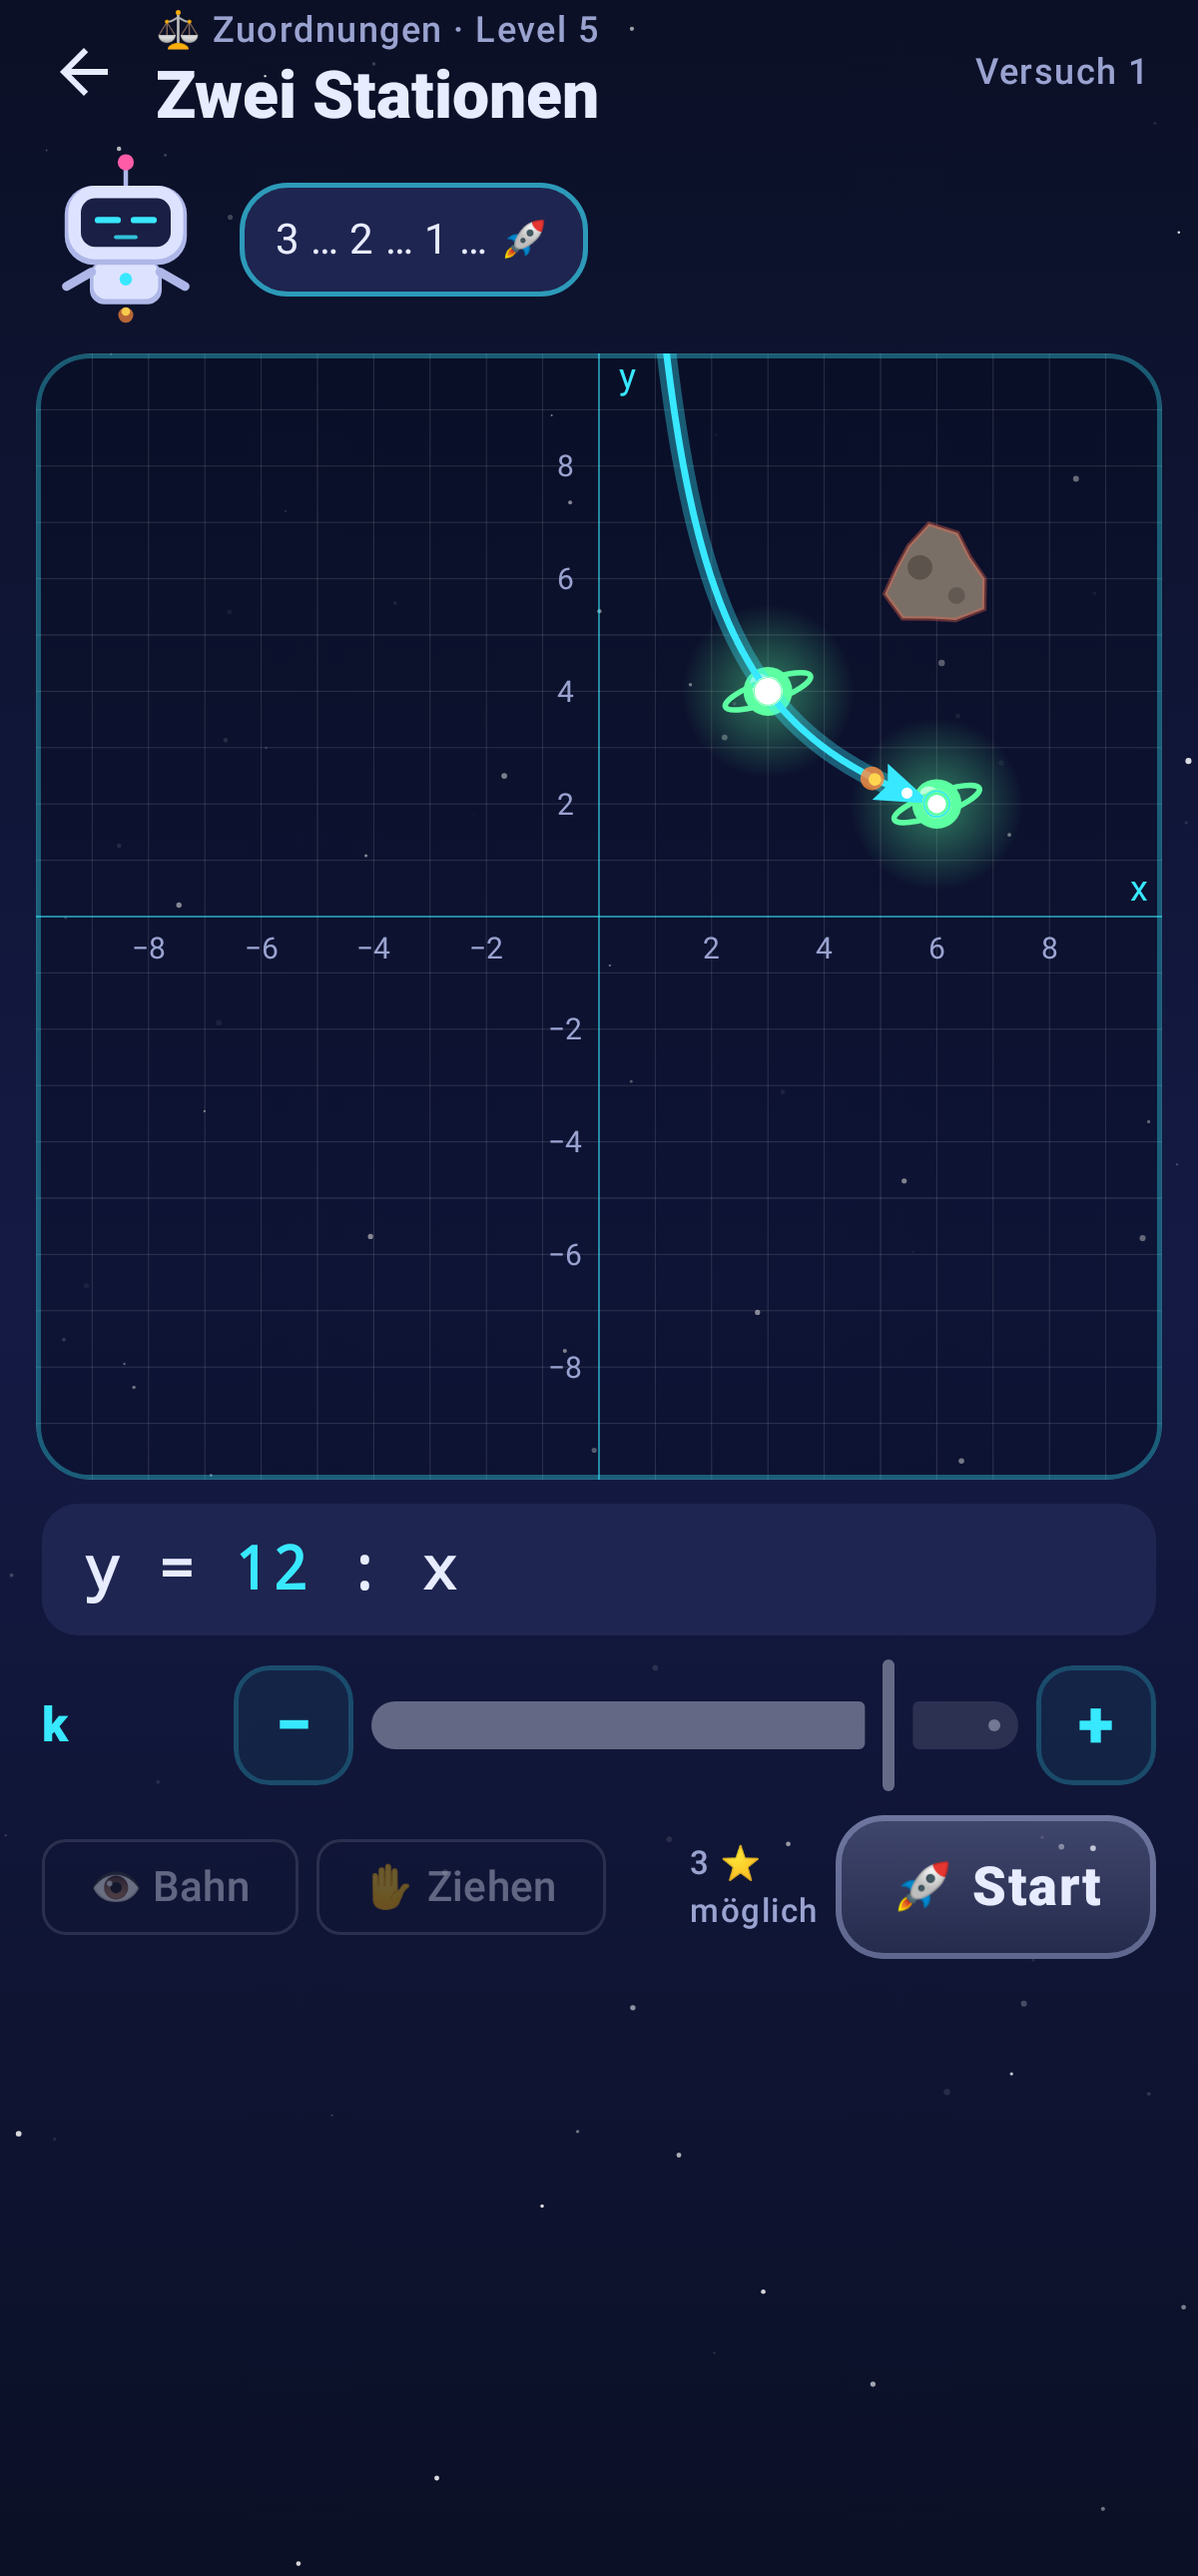
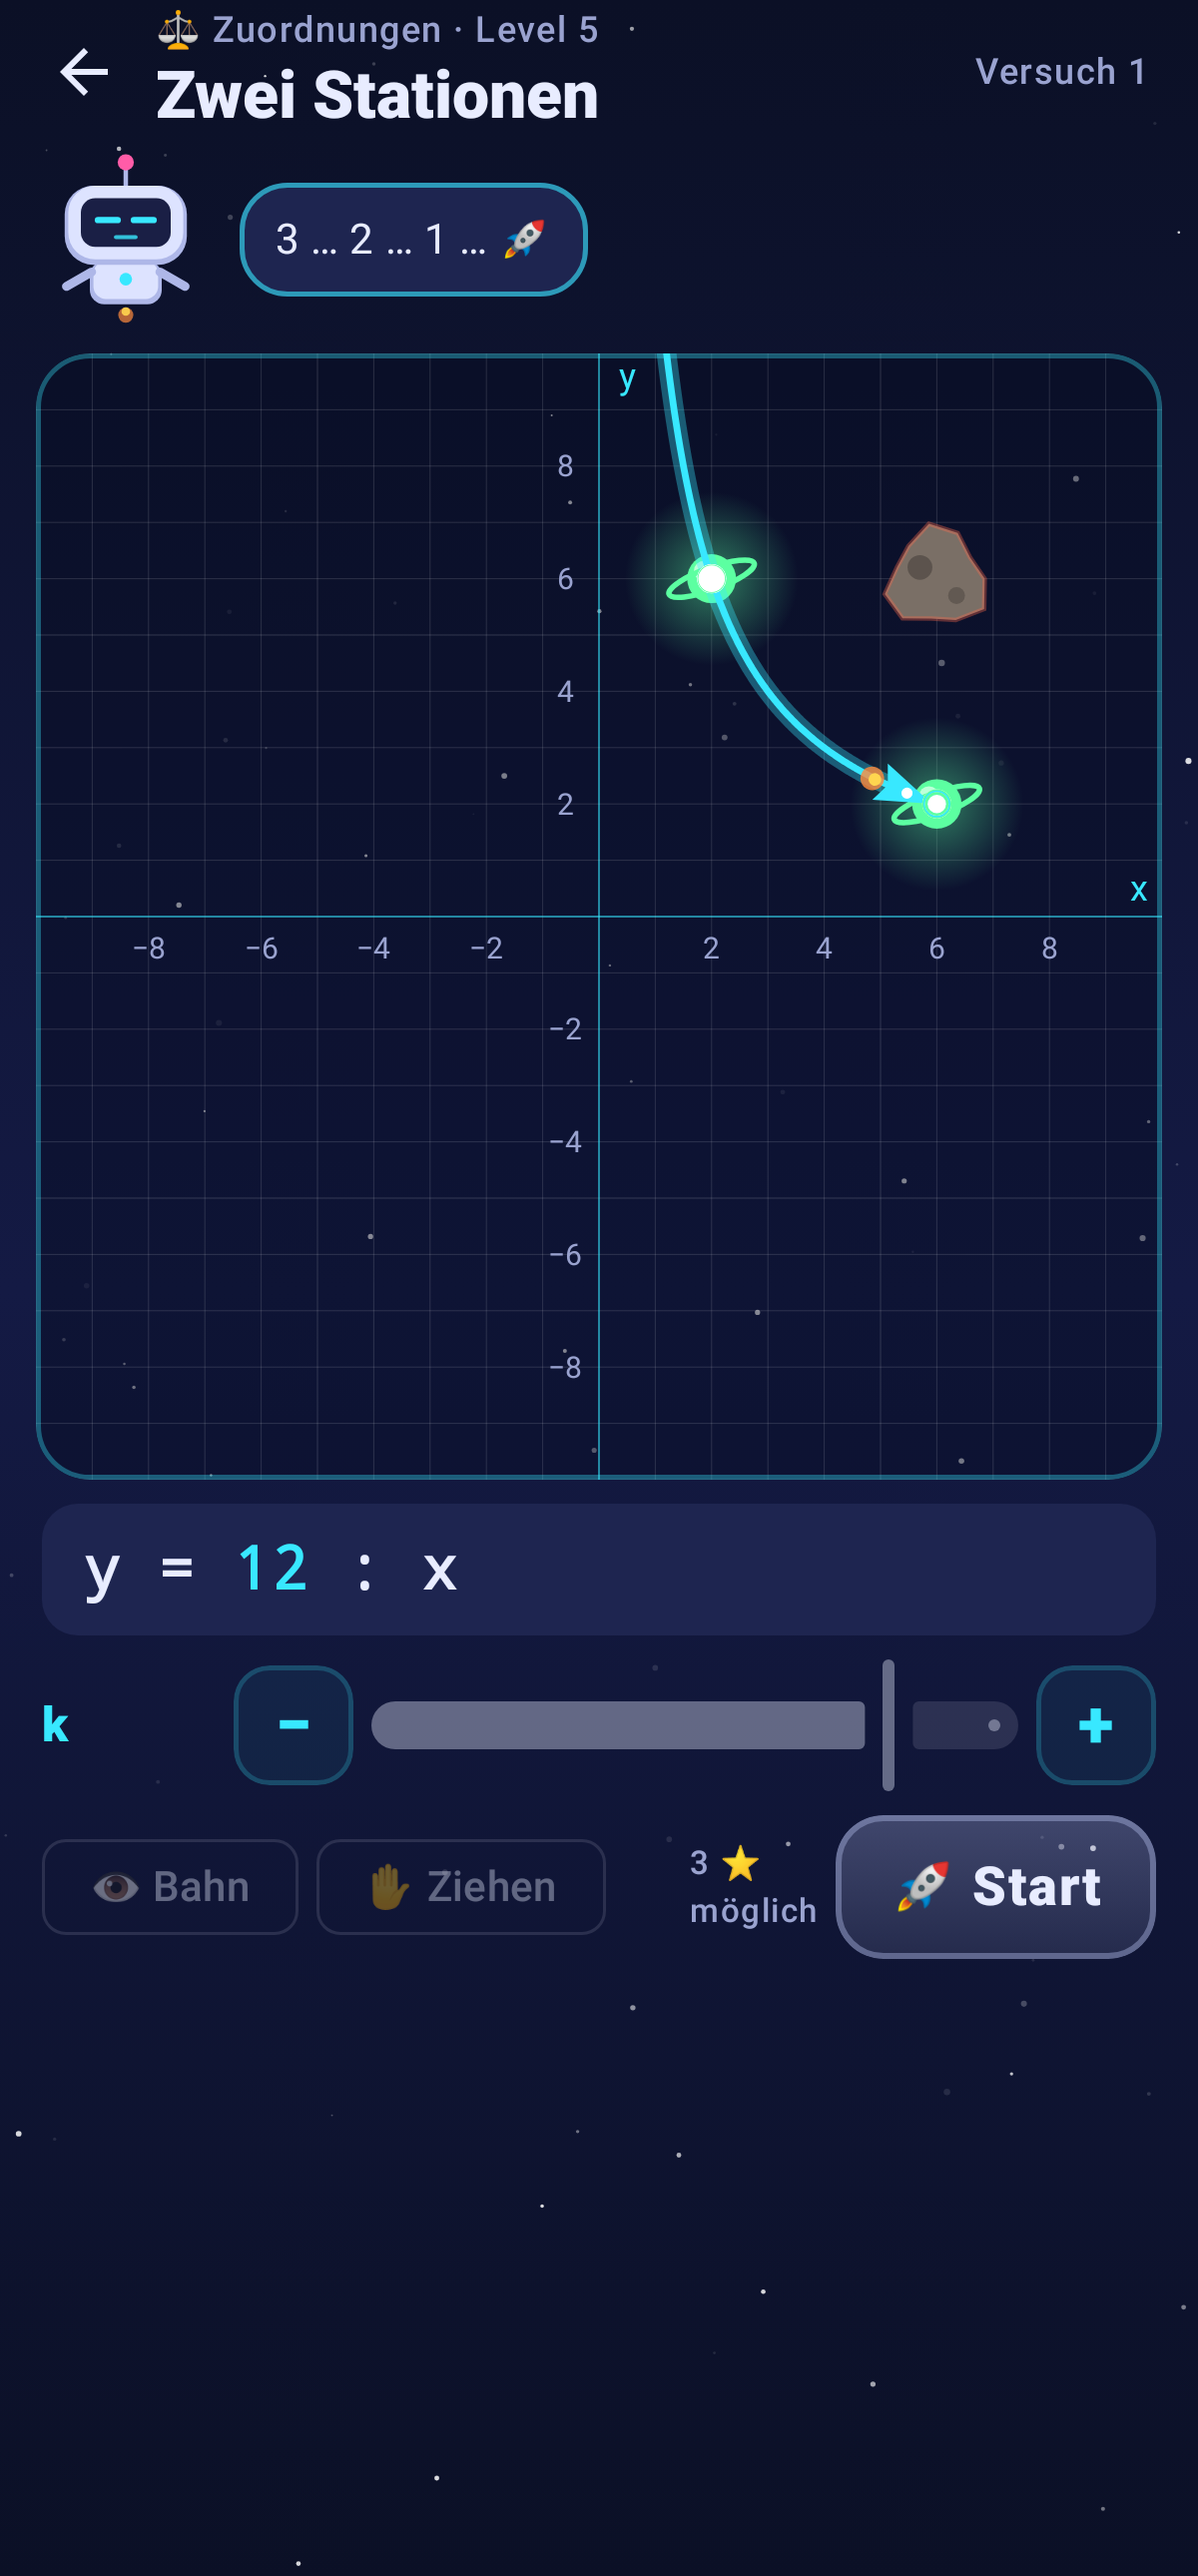
Kurvenflug 0.5.2: Treffer bei Funktionskurven nur mit richtiger Höhe an der Station
- Steile Kurven streiften den Stationskreis seitlich und zählten als Treffer, obwohl falsch gerechnet
  (z. B. 3-1: e von −6 bis −1 statt nur −3; Hyperbel 8-4: 36 Reglerstellungen)
- Neue Bedingung: |f(x_Station) − y_Station| ≤ Stationsradius (wie Volts Rückmeldung)
- Hyperbel-Level mit ganzzahligem k und günstigeren Stationen, 10-2 mit kleinerer Station
- Tests: Regressionstest für 3-1, enge Trefferfenster für alle 1-Regler-Funktionslevel

Claude-Session: https://claude.ai/code/session_015vg1TniCB6sLGd2dNSJdge

Changed region(s): [[0.5242, 0.186, 0.7092, 0.3101]]

diff --git a/kurvenflug/core/model/src/main/kotlin/de/kurvenflug/core/model/Levels.kt b/kurvenflug/core/model/src/main/kotlin/de/kurvenflug/core/model/Levels.kt
@@ -143,6 +143,8 @@ object Levels {
     private const val PI = Math.PI
     private fun planet(x: Double, y: Double, r: Double) = Body(x, y, r)
     private val pk = p("k", "k", -20.0, 20.0, 0.25, 1.0)
+    /** Hyperbel: k ist hier immer ganzzahlig – feinere Schritte würden Raten belohnen */
+    private val pkAnti = p("k", "k", -20.0, 20.0, 1.0, 1.0)
     private val pr = p("r", "Radius r", 0.5, 15.0, 0.1, 1.0)
     private val lb = p("b", "b", 0.5, 10.0, 0.5, 10.0)
     private val ld = p("d", "d", -8.0, 8.0, 1.0, 0.0)
@@ -475,13 +477,13 @@ object Levels {
                     listOf(t(6.0, -3.0)), listOf(pk), mapOf("k" to -0.5), asteroids = listOf(rock(4.0, 4.0)), tip = "k = −3 : 6."),
                 Level("8-3", 8, 3, "Prozent-Schub", Kind.PROP, "Bei x = 8 soll y genau 25 % von 8 sein. Wie groß ist k?",
                     listOf(t(8.0, 2.0)), listOf(pk), mapOf("k" to 0.25), cells = listOf(cell(4.0, 1.0)), tip = "25 % = 25/100 = 0,25."),
-                Level("8-4", 8, 4, "Hyperbel", Kind.ANTI, "Antiproportional: y = k : x. Die Station liegt bei (2 | 6).",
-                    listOf(t(2.0, 6.0)), listOf(pk), mapOf("k" to 12.0), cells = listOf(cell(1.5, 8.0)), tip = "k = x · y = 2 · 6."),
-                Level("8-5", 8, 5, "Zwei Stationen", Kind.ANTI, "y = k : x durch (3 | 4) und (6 | 2).",
-                    listOf(t(3.0, 4.0), t(6.0, 2.0)), listOf(pk), mapOf("k" to 12.0), asteroids = listOf(rock(6.0, 6.0)),
+                Level("8-4", 8, 4, "Hyperbel", Kind.ANTI, "Antiproportional: y = k : x. Die Station liegt bei (2 | 4).",
+                    listOf(t(2.0, 4.0)), listOf(pkAnti), mapOf("k" to 8.0), cells = listOf(cell(1.0, 8.0)), tip = "k = x · y = 2 · 4."),
+                Level("8-5", 8, 5, "Zwei Stationen", Kind.ANTI, "y = k : x durch (2 | 6) und (6 | 2).",
+                    listOf(t(2.0, 6.0), t(6.0, 2.0)), listOf(pkAnti), mapOf("k" to 12.0), asteroids = listOf(rock(6.0, 6.0)),
                     tip = "Bei beiden ist x · y gleich – genau das ist k."),
-                Level("8-6", 8, 6, "Kopfüber", Kind.ANTI, "y = k : x durch (4 | −2).",
-                    listOf(t(4.0, -2.0)), listOf(pk), mapOf("k" to -8.0), tip = "k = 4 · (−2)."),
+                Level("8-6", 8, 6, "Kopfüber", Kind.ANTI, "y = k : x durch (2 | −4).",
+                    listOf(t(2.0, -4.0)), listOf(pkAnti), mapOf("k" to -8.0), tip = "k = 2 · (−4)."),
             ),
         ),
         Chapter(
@@ -599,7 +601,7 @@ object Levels {
                     listOf(t(8.0, 3.0)), listOf(lb), mapOf("b" to 2.0), fixed = mapOf("d" to 0.0), cells = listOf(cell(4.0, 2.0)),
                     tip = "b³ = 8. Welche Zahl hoch 3 ist 8?"),
                 Level("10-2", 10, 2, "Dreierpotenz", Kind.LOG, "y = log_b(x) durch (9 | 2).",
-                    listOf(t(9.0, 2.0)), listOf(lb), mapOf("b" to 3.0), fixed = mapOf("d" to 0.0), tip = "b² = 9."),
+                    listOf(t(9.0, 2.0, 0.35)), listOf(lb), mapOf("b" to 3.0), fixed = mapOf("d" to 0.0), tip = "b² = 9."),
                 Level("10-3", 10, 3, "Höhenschub", Kind.LOG, "y = log₂(x) + d durch (4 | 5).",
                     listOf(t(4.0, 5.0)), listOf(ld), mapOf("d" to 3.0), fixed = mapOf("b" to 2.0), tip = "log₂(4) = 2, also 2 + d = 5."),
                 Level("10-4", 10, 4, "Abwärts", Kind.LOG, "y = log_b(x) durch (4 | −2). Die Kurve fällt!",

diff --git a/kurvenflug/core/model/src/main/kotlin/de/kurvenflug/core/model/Flight.kt b/kurvenflug/core/model/src/main/kotlin/de/kurvenflug/core/model/Flight.kt
@@ -282,6 +282,9 @@ object Flight {
         return out
     }
 
+    /** Bahnen der Form y = f(x) */
+    val functionKinds = setOf(Kind.LINE, Kind.PARABOLA, Kind.SINE, Kind.EXP, Kind.PROP, Kind.ANTI, Kind.LOG, Kind.MOTION)
+
     /** Fliegt die Bahn ab: Ziele, Energiezellen, Asteroiden. */
     fun fly(level: Level, values: Map<String, Double>): FlightResult {
         if (level.kind == Kind.RENDEZVOUS) return rendezvous(level, values)
@@ -289,11 +292,17 @@ object Flight {
         val hits = linkedSetOf<Int>(); val cells = linkedSetOf<Int>()
         var crash: Int? = null
         val flown = ArrayList<Vec>()
+        // Funktionskurven: Die Station zählt nur, wenn y an ihrer Stelle x stimmt (bis auf ihren Radius).
+        // Sonst streift eine steile Kurve den Kreis seitlich, obwohl falsch gerechnet wurde – Raten soll nicht reichen.
+        val aligned = level.targets.indices.filter { i ->
+            val t = level.targets[i]
+            level.kind !in functionKinds || abs(f(level, values, t.x) - t.y) <= t.r
+        }.toSet()
         for (p in full) {
             flown += p
             val a = level.asteroids.indexOfFirst { it.contains(p) }
             if (a >= 0) { crash = a; break }
-            if (level.kind != Kind.POINT) level.targets.forEachIndexed { i, t -> if (t.contains(p)) hits += i }
+            if (level.kind != Kind.POINT) level.targets.forEachIndexed { i, t -> if (i in aligned && t.contains(p)) hits += i }
             level.cells.forEachIndexed { i, c -> if (c.contains(p, 0.15)) cells += i }
             // Alle Stationen erreicht → andocken, nicht weiterfliegen
             if (level.kind != Kind.POINT && level.kind != Kind.RADIUS && hits.size == level.targets.size) break

diff --git a/kurvenflug/core/model/src/test/kotlin/de/kurvenflug/core/model/FlightTest.kt b/kurvenflug/core/model/src/test/kotlin/de/kurvenflug/core/model/FlightTest.kt
@@ -138,4 +138,21 @@ class FlightTest {
         assertTrue(Flight.fly(l, mapOf("r" to 7.1)).success)
         assertNotNull(Flight.fly(l, mapOf("r" to 7.6)).crash)
     }
+
+    /** Raten soll nicht reichen: Eine steile Kurve, die den Stationskreis nur seitlich streift, zählt nicht. */
+    @Test fun steepCurveGrazingTheStationDoesNotCount() {
+        val l = Levels.byId("3-1")!! // y = x² + e durch (2 | 1), Lösung e = −3
+        assertTrue(Flight.fly(l, mapOf("e" to -3.0)).success)
+        for (e in listOf(-6.0, -5.0, -4.0, -2.0, -1.0)) assertFalse("e = $e", Flight.fly(l, mapOf("e" to e)).success)
+    }
+
+    /** Für jedes Funktions-Level treffen nur wenige Reglerstellungen – wer rechnet, trifft; wer rät, kaum. */
+    @Test fun oneParameterFunctionLevelsHaveNarrowWindows() {
+        Levels.chapters.flatMap { it.levels }.filter { it.kind in Flight.functionKinds && it.params.size == 1 }.forEach { l ->
+            val p = l.params.single()
+            val wins = generateSequence(p.min) { it + p.step }.takeWhile { it <= p.max + 1e-9 }
+                .count { Flight.fly(l, mapOf(p.key to it)).success }
+            assertTrue("${l.id}: $wins Stellungen treffen", wins in 1..4)
+        }
+    }
 }

diff --git a/kurvenflug/CHANGELOG.md b/kurvenflug/CHANGELOG.md
@@ -3,6 +3,13 @@
 Kurz und verständlich für Schüler und Eltern. Der Abschnitt der aktuellen Version erscheint automatisch
 im GitHub-Release und in der App unter „App-Update“.
 
+## 0.5.2 – Rechnen lohnt sich
+- **Treffer zählen jetzt nur, wenn die Rechnung stimmt**: Bisher reichte es manchmal, wenn eine steile Kurve die Station nur
+  am Rand streifte – dann klappte es auch mit geratenen Zahlen. Jetzt muss die Kurve an der Stelle der Station die richtige
+  Höhe haben. Wer rechnet, trifft beim ersten Versuch – und Volt sagt bei einem Fehlversuch genau, wie weit es noch ist.
+- **Hyperbel-Level (Zuordnungen)**: k geht jetzt in ganzen Schritten, und die Stationen liegen so, dass man k sicher ausrechnen kann.
+- Schon gesammelte Sterne bleiben natürlich erhalten.
+
 ## 0.5.1 – Formeln wie im Schulbuch
 - **Formeln lesen sich jetzt wie im Heft**: statt „y = log₃(x) + (−2)“ steht da „y = log₃(x) − 2“. Bei der Parabel wird aus
   „(x − (−3))“ einfach „(x + 3)“. Das gilt für alle Kurven – Geraden, Parabeln, Sinus, Wachstum, Logarithmus und Weg & Zeit.
